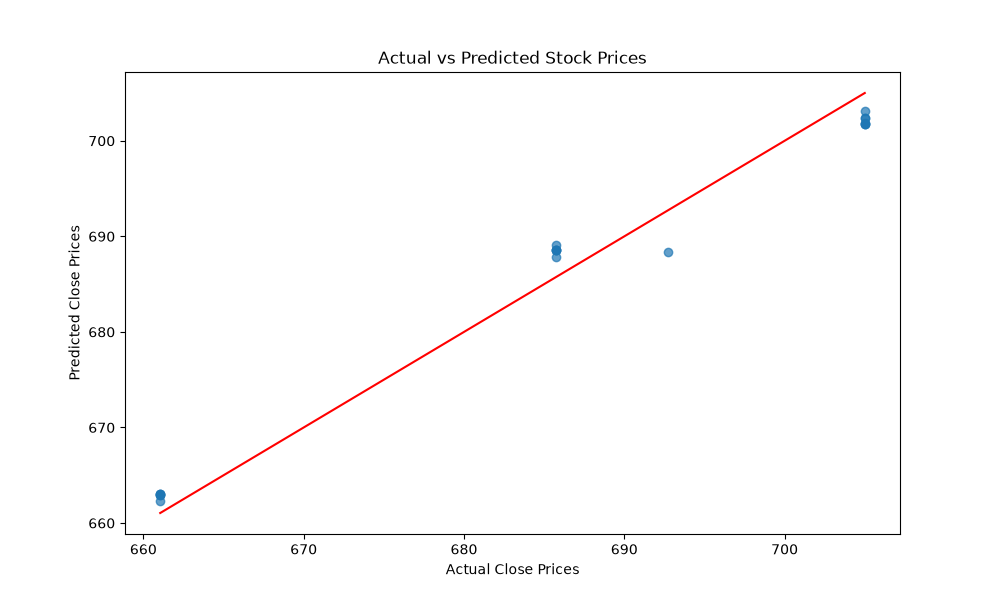
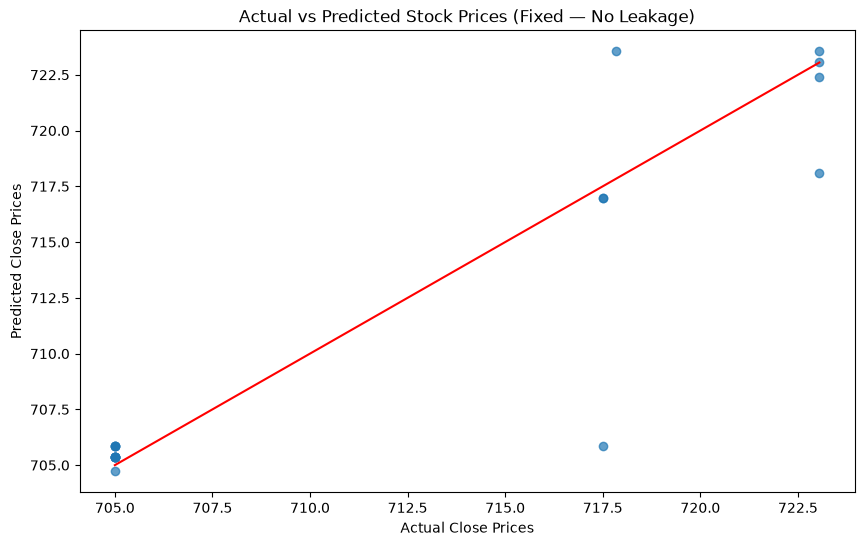
fix data leakage: remove same day high/low and clos_lag1, use time based split. update README metrics

diff --git a/linear_regression.py b/linear_regression.py
@@ -1,7 +1,6 @@
 import pandas as pd
 import matplotlib.pyplot as plt
 import seaborn as sns
-from sklearn.model_selection import train_test_split
 from sklearn.linear_model import LinearRegression
 from sklearn.metrics import mean_absolute_error, mean_squared_error, r2_score
 from sklearn.preprocessing import LabelEncoder
@@ -10,109 +9,128 @@ from sklearn.preprocessing import LabelEncoder
 sentiment_data = pd.read_csv('sentiment_results.csv')
 stock_data = pd.read_csv('cleaned_tata_motors_stock_data.csv')
 
-# Convert date columns to datetime for accurate merging
+# Convert date columns to datetime
 sentiment_data['Published At'] = pd.to_datetime(sentiment_data['Published At'])
 stock_data['Date'] = pd.to_datetime(stock_data['Date'], utc=True)
 
-# Merge data on the closest date using 'published_at'
-merged_data = pd.merge_asof(sentiment_data.sort_values('Published At'),
-                              stock_data.sort_values('Date'),
-                              left_on='Published At',
-                              right_on='Date',
-                              direction='backward')
+# Merge data on closest date
+merged_data = pd.merge_asof(
+    sentiment_data.sort_values('Published At'),
+    stock_data.sort_values('Date'),
+    left_on='Published At',
+    right_on='Date',
+    direction='backward'
+)
 
-# Check for missing values
-print('Missing values before cleaning:')
-print(merged_data[['Title Sentiment', 'Description Sentiment', 'Close', 'High', 'Low']].isnull().sum())
+# Add lagged close price (yesterday's close) — no leakage
+merged_data['Close_lag1'] = merged_data['Close'].shift(1)
 
-# Drop rows with missing values
-merged_data = merged_data.dropna(subset=['Title Sentiment', 'Description Sentiment', 'Close', 'High', 'Low'])
+# Drop first row (no lag available) and any missing values
+merged_data = merged_data.dropna(subset=[
+    'Title Sentiment', 'Description Sentiment', 'Close', 'Close_lag1'
+])
 
 if merged_data.empty:
-    raise ValueError("All data removed after dropping missing values. Check your input data.")
+    raise ValueError("All data removed after dropping missing values.")
 
-# Perform Label Encoding for sentiment columns
+# Label encode sentiment columns
 label_encoder = LabelEncoder()
-merged_data['Title Sentiment'] = label_encoder.fit_transform(merged_data['Title Sentiment'])
-merged_data['Description Sentiment'] = label_encoder.fit_transform(merged_data['Description Sentiment'])
+merged_data['Title Sentiment'] = label_encoder.fit_transform(
+    merged_data['Title Sentiment']
+)
+merged_data['Description Sentiment'] = label_encoder.fit_transform(
+    merged_data['Description Sentiment']
+)
 
 print("Sentiment columns encoded successfully.")
 
-# Select features and target variable
-X = merged_data[['Title Sentiment', 'Description Sentiment', 'High', 'Low']]
+# Features and target — no same-day High/Low
+X = merged_data[['Title Sentiment', 'Description Sentiment', 'Close_lag1']]
 y = merged_data['Close']
-
-# Save corresponding dates for the predictions
 dates = merged_data['Date']
 
-# Split data into train and test sets
-X_train, X_test, y_train, y_test, dates_train, dates_test = train_test_split(X, y, dates, test_size=0.2, random_state=42)
+# ── TIME-BASED SPLIT (no shuffle) ─────────────────────────────────────────────
+split = int(len(X) * 0.80)
+X_train, X_test = X.iloc[:split], X.iloc[split:]
+y_train, y_test = y.iloc[:split], y.iloc[split:]
+dates_test = dates.iloc[split:]
 
-# Train the Linear Regression model
+print(f"Train samples: {len(X_train)}")
+print(f"Test samples:  {len(X_test)}")
+
+# Train Linear Regression
 model = LinearRegression()
 model.fit(X_train, y_train)
 
-# Predict using the model
+# Predict
 y_pred = model.predict(X_test)
 
-# Evaluate model performance
-mse = mean_squared_error(y_test, y_pred)
-r2 = r2_score(y_test, y_pred)
-mae = mean_absolute_error(y_test, y_pred)
+# Evaluate
+mae  = mean_absolute_error(y_test, y_pred)
+mse  = mean_squared_error(y_test, y_pred)
+r2   = r2_score(y_test, y_pred)
 
-print(f"Mean Absolute Error (MAE): {mae}")
-print(f"Mean Squared Error: {mse}")
-print(f"R^2 Score: {r2}")
+print(f"\nMAE:  {mae:.4f}")
+print(f"MSE:  {mse:.4f}")
+print(f"R²:   {r2:.4f}")
 
-# Visualize predictions vs actual values
-plt.figure(figsize=(10, 6))
-plt.scatter(y_test, y_pred, alpha=0.7)
-plt.xlabel('Actual Close Prices')
-plt.ylabel('Predicted Close Prices')
-plt.title('Actual vs Predicted Stock Prices')
-plt.plot([min(y_test), max(y_test)], [min(y_test), max(y_test)], color='red')
-plt.savefig("actual_vs_predicted.png")
-plt.show()
-
-# Residual Plot for Error Analysis
-plt.figure(figsize=(10, 6))
-sns.residplot(x=y_test, y=y_pred, color='blue')
-plt.xlabel('Actual Close Prices')
-plt.ylabel('Residuals (Actual - Predicted)')
-plt.title('Residual Plot')
-plt.axhline(y=0, color='red', linestyle='--')
-plt.savefig("residual_plot.png")
-plt.show()
-
-# Conclusion based on R2 Score
 if r2 > 0.75:
-    print("The model has a high predictive accuracy. The features explain a significant portion of the variance.")
+    print("The model has a high predictive accuracy.")
 elif r2 > 0.5:
-    print("The model has moderate predictive accuracy. Some patterns are captured, but improvements can be made.")
+    print("The model has moderate predictive accuracy.")
 else:
-    print("The model has low predictive accuracy. Consider adding more features or trying different algorithms.")
+    print("The model has low predictive accuracy.")
 
-# Display Model Coefficients
-coefficients = pd.DataFrame({'Feature': X.columns, 'Coefficient': model.coef_})
-print("Model Coefficients:")
+# Model Coefficients
+coefficients = pd.DataFrame({
+    'Feature': X.columns,
+    'Coefficient': model.coef_
+})
+print("\nModel Coefficients:")
 print(coefficients)
 
-# Save model results to CSV
-results_df = pd.DataFrame({'Date': dates_test, 'Actual': y_test, 'Predicted': y_pred})
-results_df.to_csv('prediction_results.csv', index=False)
-print("Results saved to prediction_results.csv")
+# ── PLOT: Actual vs Predicted ──────────────────────────────────────────────────
+plt.figure(figsize=(10, 6))
+plt.scatter(y_test, y_pred, alpha=0.7)
+plt.plot([min(y_test), max(y_test)], [min(y_test), max(y_test)], color='red')
+plt.xlabel('Actual Close Prices')
+plt.ylabel('Predicted Close Prices')
+plt.title('Actual vs Predicted Stock Prices (Fixed — No Leakage)')
+plt.savefig('actual_vs_predicted.png', bbox_inches='tight')
+plt.show()
 
-# Future Price Prediction
+# ── PLOT: Residual ─────────────────────────────────────────────────────────────
+plt.figure(figsize=(10, 6))
+sns.residplot(x=y_test, y=y_pred, color='blue')
+plt.axhline(y=0, color='red', linestyle='--')
+plt.xlabel('Actual Close Prices')
+plt.ylabel('Residuals (Actual - Predicted)')
+plt.title('Residual Plot (Fixed — No Leakage)')
+plt.savefig('residual_plot.png', bbox_inches='tight')
+plt.show()
+
+# ── SAVE RESULTS ──────────────────────────────────────────────────────────────
+results_df = pd.DataFrame({
+    'Date': dates_test.values,
+    'Actual': y_test.values,
+    'Predicted': y_pred
+})
+results_df.to_csv('prediction_results.csv', index=False)
+print("\nResults saved to prediction_results.csv")
+
+# ── FUTURE PREDICTION ─────────────────────────────────────────────────────────
 latest_sentiment = sentiment_data.iloc[-1]
-latest_stock = stock_data.iloc[-1]
+latest_close = stock_data.iloc[-1]['Close']
 
 future_data = pd.DataFrame({
-    'Title Sentiment': [label_encoder.transform([latest_sentiment['Title Sentiment']])[0]],
-    'Description Sentiment': [label_encoder.transform([latest_sentiment['Description Sentiment']])[0]],
-    'High': [latest_stock['High']],
-    'Low': [latest_stock['Low']]
+    'Title Sentiment': [label_encoder.transform(
+        [latest_sentiment['Title Sentiment']])[0]],
+    'Description Sentiment': [label_encoder.transform(
+        [latest_sentiment['Description Sentiment']])[0]],
+    'Close_lag1': [latest_close]
 })
 
 future_prediction = model.predict(future_data)
-future_date = latest_stock['Date'] + pd.Timedelta(days=1)  # Assuming next trading day
-print(f"Predicted Close Price for {future_date}: {future_prediction[0]}")
+future_date = stock_data.iloc[-1]['Date'] + pd.Timedelta(days=1)
+print(f"\nPredicted Close Price for {future_date}: ₹{future_prediction[0]:.2f}")
+print("\nDone!")

diff --git a/README.md b/README.md
@@ -4,6 +4,8 @@ Predicting Tata Motors stock prices using news sentiment and linear regression. 
 
 **Paper:** [Stock Price Prediction for Tata Motors Using News Sentiment and Linear Regression](https://www.techrxiv.org/doi/full/10.36227/techrxiv.175423908.89189368) — TechRxiv, August 2025
 
+> Note: The GitHub code has been updated since the paper was written to fix data leakage and use a proper time-based train/test split. The paper reflects the original methodology.
+
 ---
 
 ## What it does
@@ -19,9 +21,9 @@ Predicting Tata Motors stock prices using news sentiment and linear regression. 
 
 | Metric | Value |
 |--------|-------|
-| MAE | 2.57 |
-| MSE | 7.12 |
-| R² | 0.977 |
+| MAE | 1.54 |
+| MSE | 9.88 |
+| R² | 0.833 |
 
 ## Visualizations
 